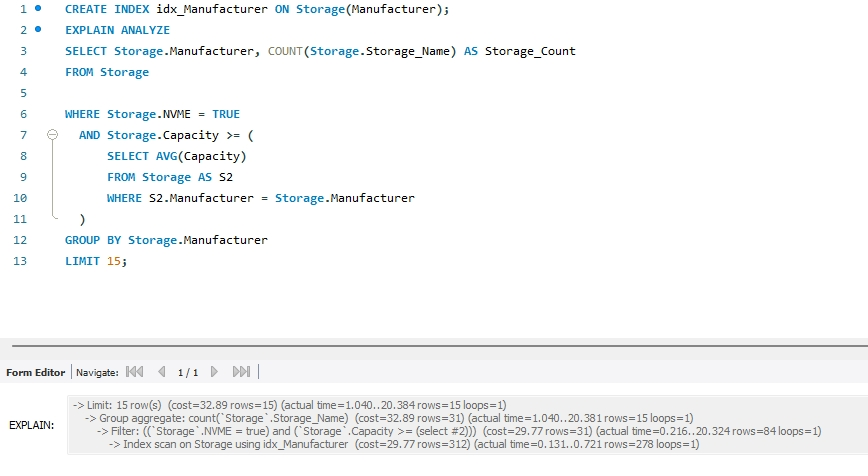
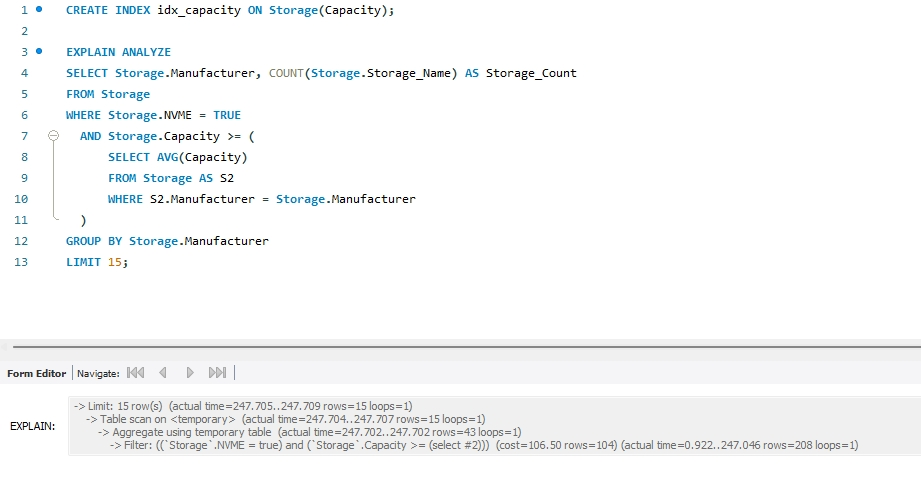
index analysis for query 1

diff --git a/doc/DataBaseDesign.md b/doc/DataBaseDesign.md
@@ -652,7 +652,11 @@ LIMIT 15;
 #### Query 1:
 ##### EXPLAIN ANALYZE (cost = 106.50)
 ![](./imgs/advSQL_explain_analyze1.png)
-##### Index to NVME (cost = 67.10)
+##### Index to ```NVME``` (cost = 67.10)
 ![](./imgs/advSQL_index1_1.png)
-##### Index to Manufacturer (cost = 29.77)
+##### Index to ```Capacity``` (cost = 106.50)
 ![](./imgs/advSQL_index2_1.png)
+##### Index to ```Manufacturer``` (cost = 29.77)
+![](./imgs/advSQL_index3_1.png)
+##### Selected index: ```Manufacturer```
+The cost with this index is the lowest. Among the 3 attributes (```NVME```, ```Capacity```, ```Manufacturer```), its high cardinality helps reduce cost for search, especially with the query grouping entries by it, comparing to *NVME*, boolean, which also reduces the cost, but not that significant. Additionally, it is expected that indexing to ```Capacity```  alone does not help, since the condition depends on the comparison to ```AVG(Capacity)```, a subquery.
